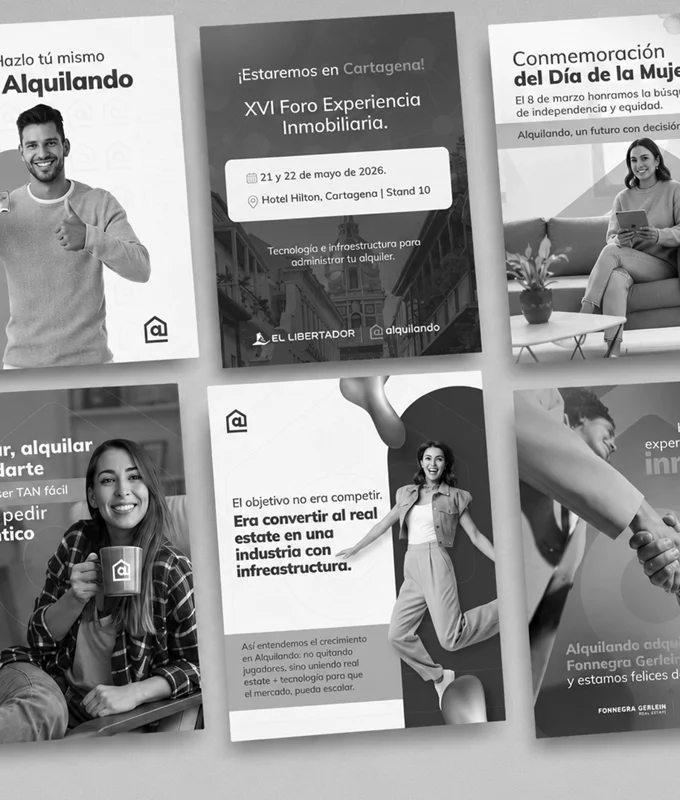
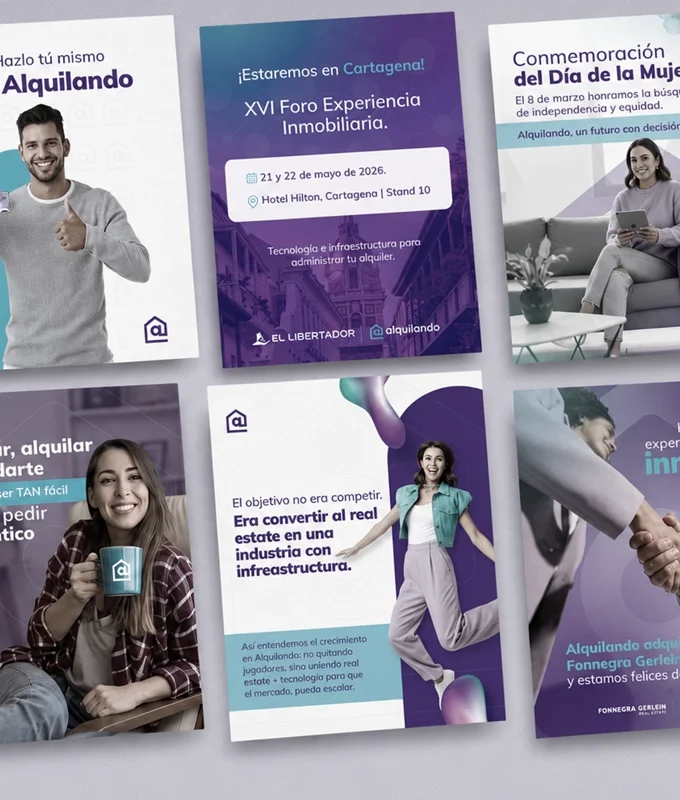
Tune Redes Sociales card saturation and add second testimonial
Redes Sociales keeps a hint of color instead of full grayscale, to
sit between B&W and full color. Also add Andrea González's review
to the second testimonial slot.

diff --git a/index.html b/index.html
@@ -422,7 +422,7 @@
     <div class="section-head reveal"><div class="htxt"><span class="eyebrow">Testimonios</span><h2>Lo que dicen quienes han trabajado <span class="grad">conmigo</span></h2></div></div>
     <div class="testi-grid">
       <div class="testi-card reveal"><div class="stars"><svg viewBox="0 0 24 24"><polygon points="12,2 15,9 22,9.5 16.5,14 18.5,21 12,17 5.5,21 7.5,14 2,9.5 9,9"/></svg><svg viewBox="0 0 24 24"><polygon points="12,2 15,9 22,9.5 16.5,14 18.5,21 12,17 5.5,21 7.5,14 2,9.5 9,9"/></svg><svg viewBox="0 0 24 24"><polygon points="12,2 15,9 22,9.5 16.5,14 18.5,21 12,17 5.5,21 7.5,14 2,9.5 9,9"/></svg><svg viewBox="0 0 24 24"><polygon points="12,2 15,9 22,9.5 16.5,14 18.5,21 12,17 5.5,21 7.5,14 2,9.5 9,9"/></svg><svg viewBox="0 0 24 24"><polygon points="12,2 15,9 22,9.5 16.5,14 18.5,21 12,17 5.5,21 7.5,14 2,9.5 9,9"/></svg></div><p class="testi-quote">"Laura Aires combina lo mejor de dos mundos: un talento de diseño extraordinario y una calidad profesional intachable. Es creativa, meticulosa en la ejecución y sumamente apasionada por lo que hace. Además de sus habilidades técnicas, su calidad humana y excelente trato la convierten en una compañera de trabajo excepcional. La recomiendo al 100% para cualquier reto o liderazgo creativo."</p><div class="testi-who"><div class="testi-name">Daniel Gutiérrez</div><div class="testi-role">CEO · Asisomos Agency</div></div></div>
-      <div class="testi-card reveal"><div class="stars"><svg viewBox="0 0 24 24"><polygon points="12,2 15,9 22,9.5 16.5,14 18.5,21 12,17 5.5,21 7.5,14 2,9.5 9,9"/></svg><svg viewBox="0 0 24 24"><polygon points="12,2 15,9 22,9.5 16.5,14 18.5,21 12,17 5.5,21 7.5,14 2,9.5 9,9"/></svg><svg viewBox="0 0 24 24"><polygon points="12,2 15,9 22,9.5 16.5,14 18.5,21 12,17 5.5,21 7.5,14 2,9.5 9,9"/></svg><svg viewBox="0 0 24 24"><polygon points="12,2 15,9 22,9.5 16.5,14 18.5,21 12,17 5.5,21 7.5,14 2,9.5 9,9"/></svg><svg viewBox="0 0 24 24"><polygon points="12,2 15,9 22,9.5 16.5,14 18.5,21 12,17 5.5,21 7.5,14 2,9.5 9,9"/></svg></div><p class="testi-quote">"Cita de testimonio — reemplazar con contenido real de LinkedIn."</p><div class="testi-who"><div class="testi-name">Nombre Apellido</div><div class="testi-role">Cargo · Empresa</div></div></div>
+      <div class="testi-card reveal"><div class="stars"><svg viewBox="0 0 24 24"><polygon points="12,2 15,9 22,9.5 16.5,14 18.5,21 12,17 5.5,21 7.5,14 2,9.5 9,9"/></svg><svg viewBox="0 0 24 24"><polygon points="12,2 15,9 22,9.5 16.5,14 18.5,21 12,17 5.5,21 7.5,14 2,9.5 9,9"/></svg><svg viewBox="0 0 24 24"><polygon points="12,2 15,9 22,9.5 16.5,14 18.5,21 12,17 5.5,21 7.5,14 2,9.5 9,9"/></svg><svg viewBox="0 0 24 24"><polygon points="12,2 15,9 22,9.5 16.5,14 18.5,21 12,17 5.5,21 7.5,14 2,9.5 9,9"/></svg><svg viewBox="0 0 24 24"><polygon points="12,2 15,9 22,9.5 16.5,14 18.5,21 12,17 5.5,21 7.5,14 2,9.5 9,9"/></svg></div><p class="testi-quote">"Tuve la oportunidad de trabajar con Laura en varios proyectos y fue muy bonito compartir equipo con ella. Siempre se destacó por su creatividad, compromiso y atención a los detalles. Tiene una gran capacidad para ejecutar ideas y llevar los proyectos a un excelente resultado. Además, siempre tuvo la mejor disposición para ayudar y aportar, y su calidad humana hizo que trabajar con ella fuera mucho más agradable. Sin duda, volvería a trabajar con Laura."</p><div class="testi-who"><div class="testi-name">Andrea González</div><div class="testi-role">Senior Designer</div></div></div>
       <div class="testi-card reveal"><div class="stars"><svg viewBox="0 0 24 24"><polygon points="12,2 15,9 22,9.5 16.5,14 18.5,21 12,17 5.5,21 7.5,14 2,9.5 9,9"/></svg><svg viewBox="0 0 24 24"><polygon points="12,2 15,9 22,9.5 16.5,14 18.5,21 12,17 5.5,21 7.5,14 2,9.5 9,9"/></svg><svg viewBox="0 0 24 24"><polygon points="12,2 15,9 22,9.5 16.5,14 18.5,21 12,17 5.5,21 7.5,14 2,9.5 9,9"/></svg><svg viewBox="0 0 24 24"><polygon points="12,2 15,9 22,9.5 16.5,14 18.5,21 12,17 5.5,21 7.5,14 2,9.5 9,9"/></svg><svg viewBox="0 0 24 24"><polygon points="12,2 15,9 22,9.5 16.5,14 18.5,21 12,17 5.5,21 7.5,14 2,9.5 9,9"/></svg></div><p class="testi-quote">"Cita de testimonio — reemplazar con contenido real de LinkedIn."</p><div class="testi-who"><div class="testi-name">Nombre Apellido</div><div class="testi-role">Cargo · Empresa</div></div></div>
     </div>
   </div>
